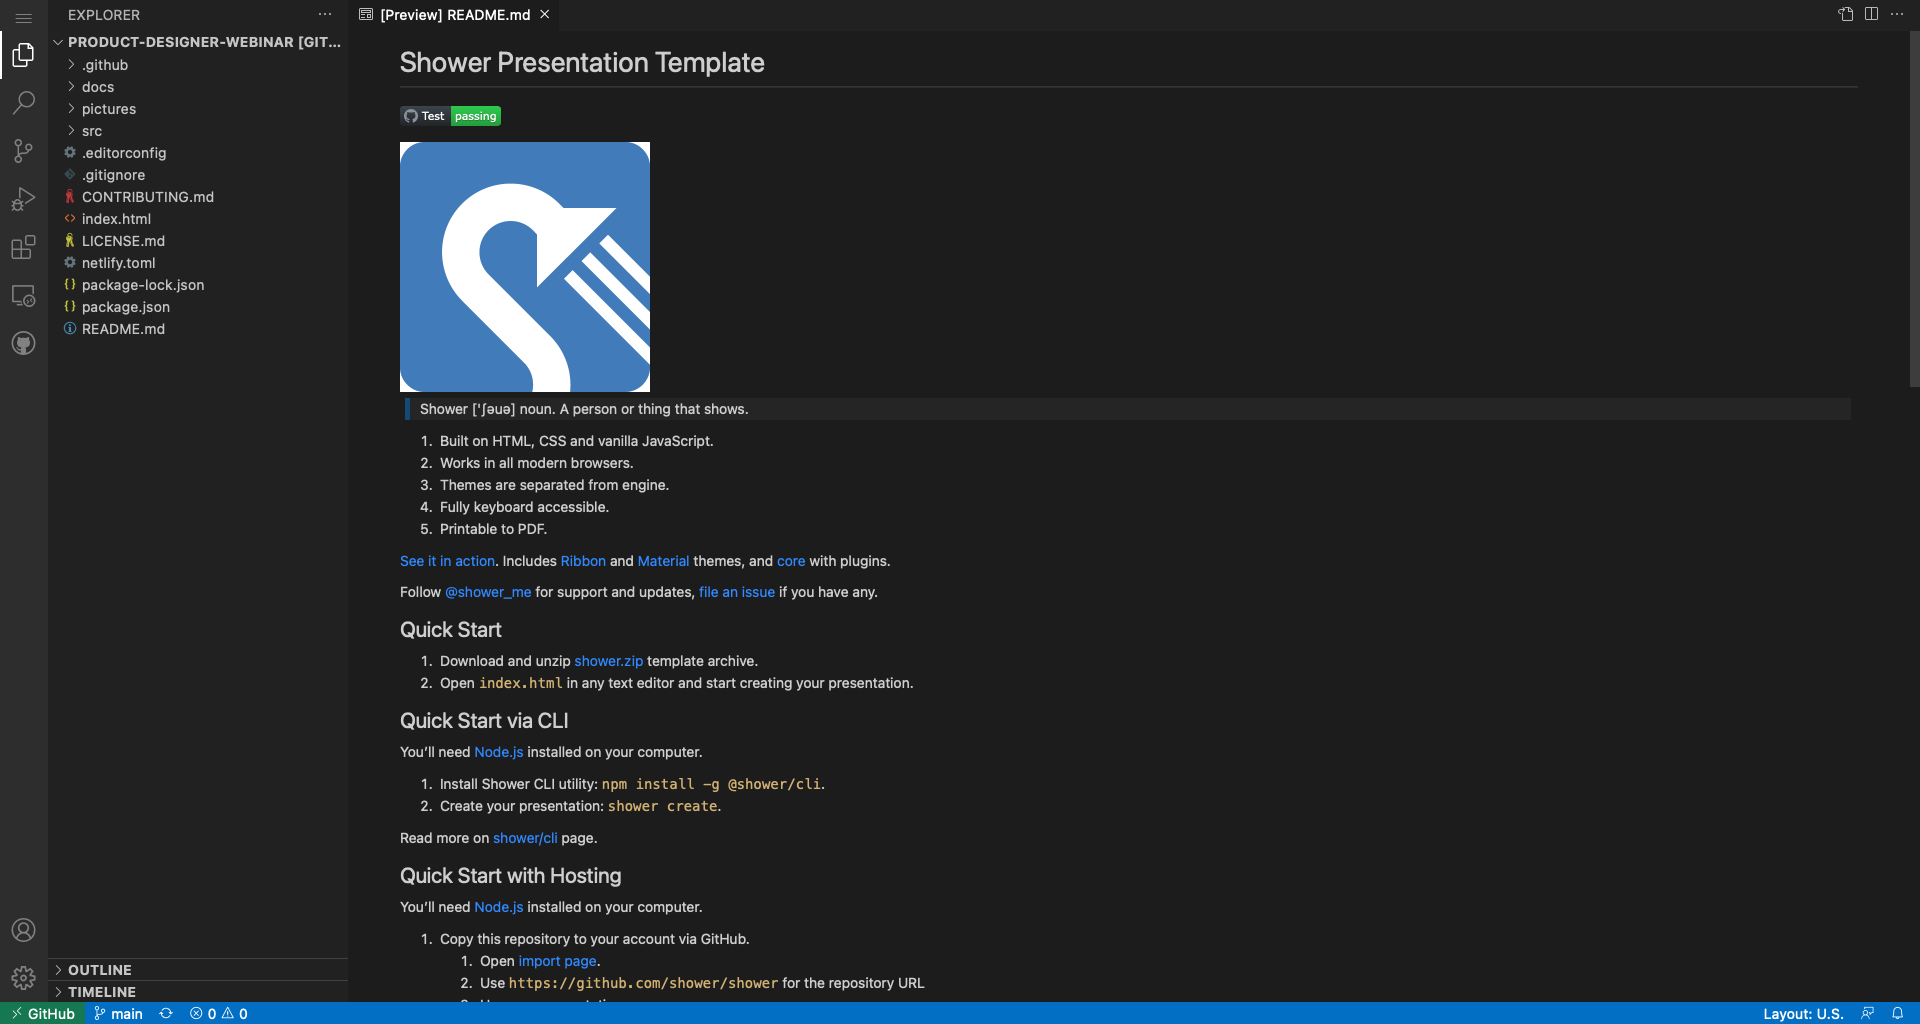
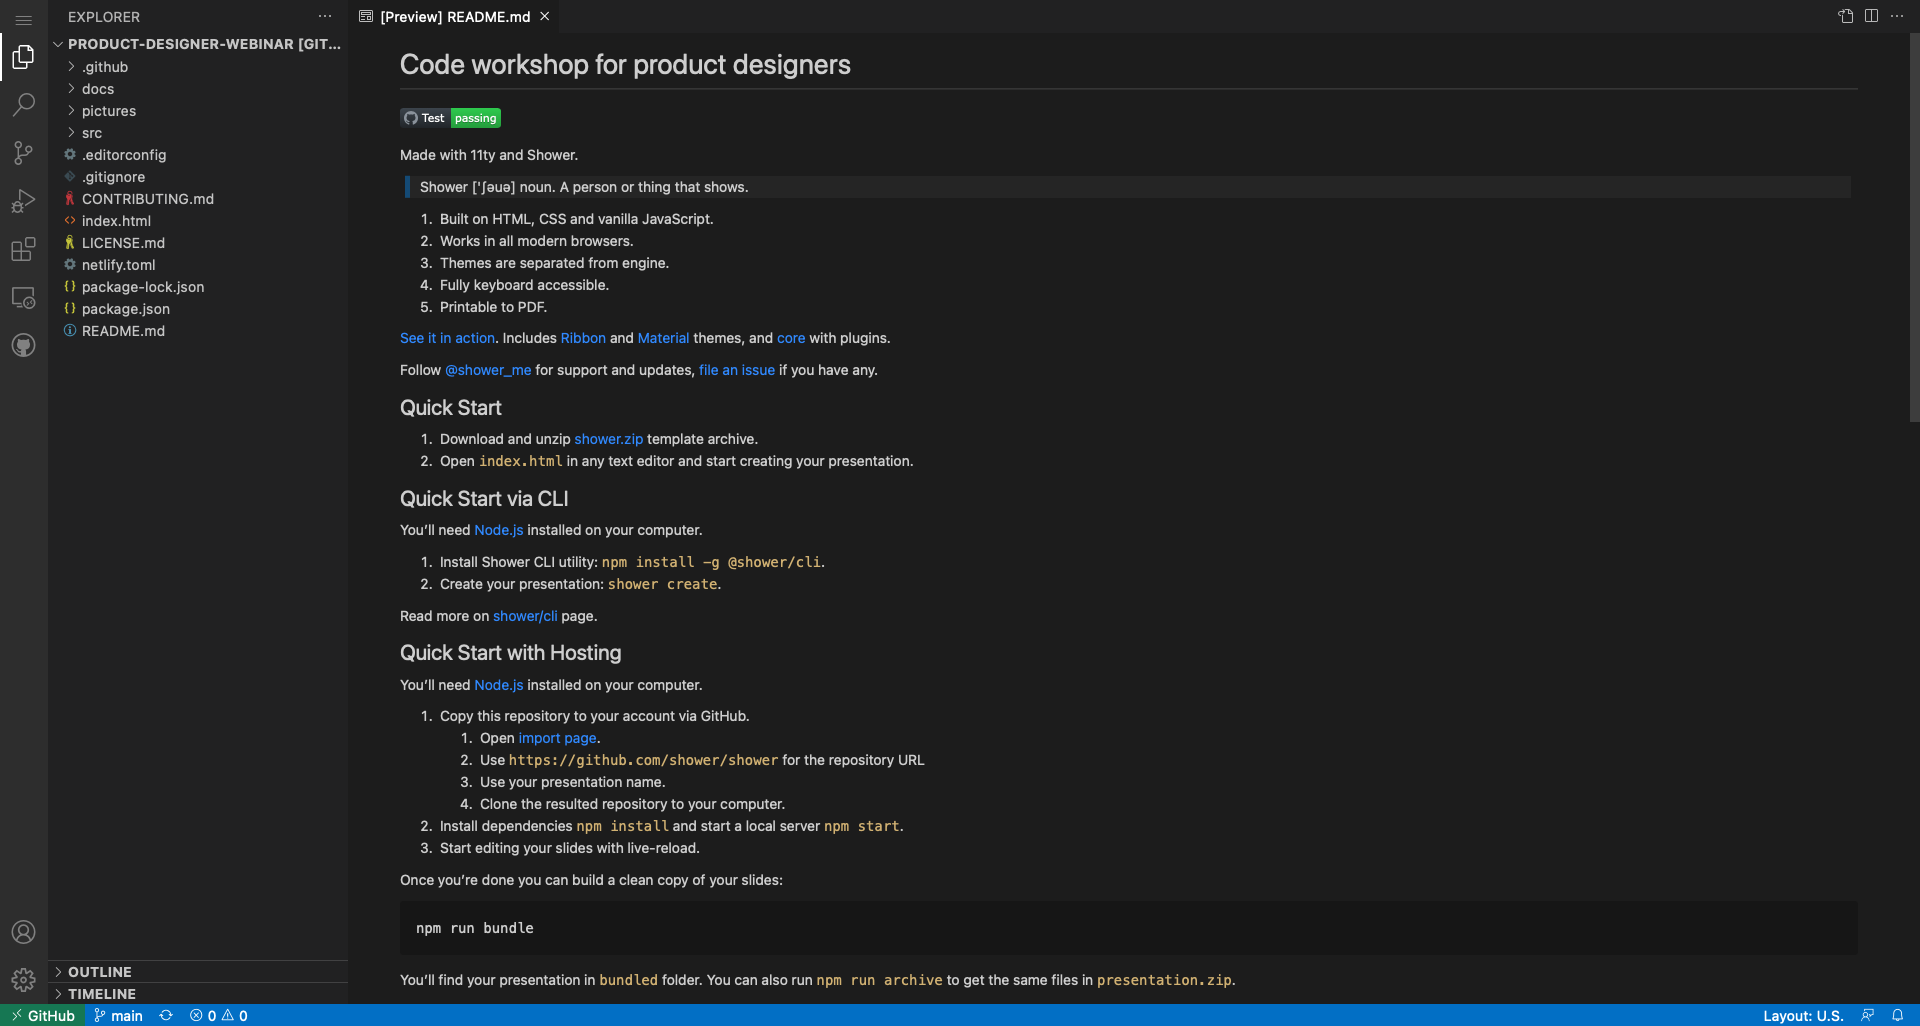
Task

Changed region(s): [[0.1875, 0.0, 0.625, 0.9688], [0.0312, 0.0, 0.1875, 0.3438], [0.9688, 0.375, 1.0, 0.4062]]

diff --git a/src/task.html b/src/task.html
@@ -20,47 +20,98 @@
             margin-bottom: .5em;
         }
         code {
-            background-color: lightgray;
-            color: darkred;
+            background-color: rgb(51, 122, 198);
+            color: #fff;
             display: inline-block;
             padding: 0.25em;
             border-radius: .25em;
         }
         img {
-            vertical-align: middle;
+            vertical-align: top;
             max-width: 100%;
             height: auto;
+            margin: .5em;
         }
         figure {
             margin: 0;
+        }
+        figure + figure {
+            margin-top: 1em;
         }
         figcaption {
             margin-bottom: .5em;
         }
         li {
-            margin-bottom: 1.5em;
+            margin-bottom: 2em;
         }
     </style>
 </head>
 <body>
 <header>
-<h1>Задание на воркшоп</h1>
+<h1>Задание на воркшоп</h1>
 </header>
 <main>
 <ol>
     <li>
         <figure>
-            <figcaption>Перейти в <a href="https://github.com/dontliem1/product-designer-webinar" target="_blank">репозиторий воркшопа</a></figcaption>
+            <figcaption>Перейдите в <a href="https://github.com/dontliem1/product-designer-webinar" target="_blank">репозиторий воркшопа</a></figcaption>
             <img src="../pictures/task/repo.png" width="900" alt="">
         </figure>
     </li>
     <li>
         <figure>
-            <figcaption>Нажать на точку <code>.</code> на клавиатуре, чтобы вызвать веб-версию VS Code</figcaption>
+            <figcaption>Нажмите на точку <code>.</code> на клавиатуре, чтобы вызвать веб-версию VS Code, и дождитесь окончания загрузки</figcaption>
             <img src="../pictures/task/webeditor.png" width="900" alt="">
         </figure>
     </li>
-    <li>Нажать на точку <code>.</code> на клавиатуре, чтобы вызвать веб-версию VS Code</li>
+    <li>
+        <figure>
+            <figcaption>В левом нижнем углу нажмите на <code>main</code> и создайте новую ветку <code>Create new branch</code>, написав по-английски свою фамилию/ник и переключитесь на неё <code>Switch to branch</code></figcaption>
+            <img src="../pictures/task/branch1.png" width="300" alt="">
+            <img src="../pictures/task/branch2.png" width="300" alt="">
+            <img src="../pictures/task/branch3.png" width="600" alt="">
+            <img src="../pictures/task/branch4.png" width="400" alt="">
+        </figure>
+        <figure>
+            <figcaption>Убедитесь, что в левом нижнем углу теперь отображается ваша ветка</figcaption>
+            <img src="../pictures/task/branch5.png" width="300" alt="">
+        </figure>
+    </li>
+    <li>
+        <figure>
+            <figcaption>В дереве файлов слева создайте копию файла <code>example.md</code> в папке <code>src/students</code>, нажав на нём правой кнопкой мыши, и выбрав <code>Copy</code>, а затем нажав правой кнопкой на папке <code>students</code> и выбрав <code>Paste</code></figcaption>
+            <img src="../pictures/task/copy.png" width="450" alt="">
+            <img src="../pictures/task/paste.png" width="450" alt="">
+        </figure>
+    </li>
+    <li>
+        <figure>
+            <figcaption>Переименуйте получившийся файл также как ветку, нажав на нём правой кнопкой мыши и выбрав <code>Rename</code></figcaption>
+            <img src="../pictures/task/rename1.png" width="450" alt="">
+            <img src="../pictures/task/rename2.png" width="300" alt="">
+        </figure>
+    </li>
+    <li>
+        <figure>
+            <figcaption>Замените содержимое файла, введя своё имя/ник</figcaption>
+            <img src="../pictures/task/content.png" width="450" alt="">
+        </figure>
+    </li>
+    <li>
+        <figure>
+            <figcaption>На вкладке слева <code>Source Control</code> наведите курсор на наш новый файл и нажмите на появившийся <code>+</code> справа. Введите в поле <code>Message</code> сверху сообщение для коммита и нажмите на галочку <code>✓</code></figcaption>
+            <img src="../pictures/task/stage.png" width="450" alt="">
+            <img src="../pictures/task/commit.png" width="450" alt="">
+        </figure>
+    </li>
+    <li>
+        <figure>
+            <figcaption>Нажмите на кнопку <code>Create pull request</code>(вторая после заголовка <code>Source Control</code>). В открывшейся вкладке пролистайте вниз и нажмите <code>Create</code>. Напишите в чат воркшопа «Готово»!</figcaption>
+            <img src="../pictures/task/pr1.png" width="600" alt=""><br>
+            <img src="../pictures/task/pr2.png" width="250" alt="">
+            <img src="../pictures/task/pr3.png" width="900" alt="">
+        </figure>
+    </li>
 </ol>
 </main>
 <footer>

diff --git a/index.html b/index.html
@@ -27,7 +27,7 @@
 
     <header class="caption">
         <h1>GitHub и Метрика</h1>
-        <p>Вебинар для продуктовых дизайнеров</p>
+        <p>Воркшоп для продуктовых дизайнеров</p>
         <p><a href="cats/">Доска почёта</a> • <a href="task/">Задание</a></p>
     </header>
 

diff --git a/README.md b/README.md
@@ -1,5 +1,5 @@
 # Code workshop for product designers
-[![Test status](https://github.com/shower/shower/workflows/Test/badge.svg)](https://github.com/shower/shower/actions/workflows/test.yml)
+[Published version](https://pd-workshop.netlify.app)
 
 Made with 11ty and Shower.
 

diff --git a/src/students/example.md b/src/students/example.md
@@ -1,1 +1,1 @@
-Михаил Воробьёв
+Пример Примерович
